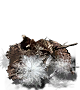
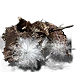
du

diff --git a/collections/_note/01-self-efficacy/001-learning-how-to-learn.md b/collections/_note/01-self-efficacy/001-learning-how-to-learn.md
@@ -564,27 +564,27 @@ I am Barbara Oakley. Thanks for learning about learning.
 
 *When you're learning a new idea, for example a new vocabulary word or a new concept or a new problem solving approach, you sometimes tend to practice it over and over again during the same study session. A little of this is useful and necessary, but continuing to study or practice after you've mastered what you can in the session is called `overlearning`. Overlearning can have its place. It can produce an `automaticity` that can be important when you're executing a serve in tennis or a perfect piano concerto. If you choke on tests or public speaking, overlearning can be especially valuable.* You know that even expert public speakers practice on the order of 70 hours for a typical 20-minute TED Talk? *`Automaticity` can indeed be helpful in times of nervousness, but be wary of repetitive overlearning during a single session. Research has shown it can be a waste of valuable learning time. The reality is, once you've got the basic idea down during a session, continuing to hammer away at it during the same session doesn't strengthen the kinds of long term memory connections you want to have strengthened. Worse yet, focusing on one technique is a little like learning carpentry by only practicing with a hammer. After a while you think you can fix anything by just bashing at it.*
 
-*当你学习一个新概念，比如一个新词汇、一个新概念或一个新的问题解决方法时，有时会倾向于在同一个学习阶段反复练习。适度的重复是有益和必要的，但在你已经掌握了这一阶段内容之后，继续学习或练习称为`过度学习`。过度学习在某些情况下是有价值的，它可以产生一种`自动性`，这在网球发球或完美的钢琴协奏曲时非常重要。如果你在考试或公众演讲时感到紧张，过度学习尤为重要。*你知道，即使是专家级的演讲者，通常也会为一个20分钟的TED演讲练习约70个小时吗？*在紧张的时候，`自动性`确实能带来帮助，但在一个学习阶段过度重复学习应当谨慎。研究表明，这可能浪费宝贵的学习时间。现实是，一旦你在一个阶段掌握了基本概念，在同一个阶段继续反复琢磨并不会增强你所希望的长期记忆连接。更糟的是，过于集中于一种技巧就像只用锤子学习木工。一段时间后，你会觉得通过猛砸就能修复任何东西。*
+*当你学习一个新概念，比如一个新词汇、一个新概念或一个新的问题解决方法时，有时会倾向于在同一个学习阶段反复练习。适度的重复是有益和必要的，但在你已经掌握了这一阶段内容之后，继续学习或练习称为`过度学习`。过度学习在某些情况下是有价值的，它可以产生一种`自动性`，这在网球发球或完美的钢琴协奏曲时非常重要。如果你在考试或公众演讲时感到紧张，过度学习尤为重要*。你知道，即使是专家级的演讲者，通常也会为一个20分钟的TED演讲练习约70个小时吗？**在紧张的时候，`自动性`确实能带来帮助，但在一个学习阶段过度重复学习应当谨慎。研究表明，这可能浪费宝贵的学习时间**。*现实是，一旦你在一个阶段掌握了基本概念，**在同一个阶段继续反复琢磨并不会增强你所希望的长期记忆连接**。更糟的是，过于集中于一种技巧就像只用锤子学习木工。一段时间后，你会觉得通过猛砸就能修复任何东西。*
 
-Using a subsequent study session to repeat what you're trying to learn is just fine and often valuable. It can strengthen and deepen your chunked neuron patterns. But be wary; repeating something you already know perfectly well, is, face it, easy. It can also bring the illusion of competence that you've mastered the full range of material, when you've actually only mastered the easy stuff. Instead, you want to balance your studies by deliberately focusing on what you find more difficult. This focusing on the more difficult material is called deliberate practice. It's often what makes the difference between a good student and a great student. 
+**Using a subsequent study session to repeat what you're trying to learn is just fine and often valuable. It can strengthen and deepen your chunked neuron patterns.** But be wary; repeating something you already know perfectly well, is, face it, easy. *It can also bring the `illusion of competence` that you've mastered the full range of material, when you've actually only mastered the easy stuff.* Instead, you want to balance your studies by deliberately focusing on what you find more difficult. *This focusing on the more difficult material is called `deliberate practice`. It's often what makes the difference between a good student and a great student*. 
 
-使用后续的学习阶段来重复你正在学习的内容是完全可以的，而且通常很有价值。这可以增强和加深你的信息块神经模式。但要小心；重复你已经非常熟悉的内容，其实是很容易的。这也可能带来一种掌握所有材料的错觉，而实际上你只掌握了简单的部分。相反，你需要通过有意识地关注更困难的内容来平衡你的学习。这种关注更困难材料的方式被称为有意练习。这往往是优秀学生和优秀学生之间的区别。
+**使用后续的学习阶段来重复你正在学习的内容是完全可以的，而且通常很有价值。这可以增强和加深你的信息块神经模式。**但要小心；重复你已经非常熟悉的内容，其实是很容易的。*这也可能带来`知识错觉`，而实际上你只掌握了简单的部分*。相反，你需要通过有意识地关注更困难的内容来平衡你的学习。*这种关注更困难材料的方式被称为`刻意练习`。这往往是优秀学生和优秀学生之间的区别*。
 
-All this is also related to a concept known as Einstellung. In this phenomenon, your initial simple thought, an idea you already have in mind or a neural pattern you've already developed and strengthened, may prevent a better idea or solution from being found. We saw this in the focus pinball picture, where your initial pinball of thought went to the upper part of the brain, but the solution thought pattern was in the lower part. The crowded bumpers of the focus mode and the previous patterns you built can create a sort of rut that prevents you from springing to a new place where the solution might be found. Incidentally, the German word Einstellung means mindset. Basically you can remember einstellung as installing a roadblock because of the way you were initially looking at something. This kind of wrong approach is especially easy to do in sports and science, not to mention other disciplines, because sometimes your initial intuition about what's happening or what you need to be doing is misleading. You have to unlearn your erroneous older ideas or approaches even while you're learning new ones.
+All this is also related to a concept known as `Einstellung`. In this phenomenon, **your initial simple thought, an idea you already have in mind or a neural pattern you've already developed and strengthened, may prevent a better idea or solution from being found.** We saw this in the focus pinball picture, where your initial pinball of thought went to the upper part of the brain, but the solution thought pattern was in the lower part. The crowded bumpers of the focus mode and the previous patterns you built can create a sort of rut that prevents you from springing to a new place where the solution might be found. Incidentally, the German word Einstellung means mindset. Basically you can remember einstellung as installing a roadblock because of the way you were initially looking at something. This kind of wrong approach is especially easy to do in sports and science, not to mention other disciplines, **because sometimes your initial intuition about what's happening or what you need to be doing is misleading. You have to unlearn your erroneous older ideas or approaches even while you're learning new ones.**
 
-这一切还与一个叫做“设定”（Einstellung）的概念相关。在这一现象中，你最初的简单想法、你已经掌握的概念或神经模式可能会阻碍更好的想法或解决方案的产生。我们在聚焦弹球的图示中看到，初始的思维弹球上升到大脑的上部，而解决方案的思维模式则在下部。聚焦模式的拥挤和你之前建立的模式可能会造成一种障碍，阻止你跳到一个可能找到解决方案的新地方。顺便提一下，德语中的“Einstellung”意为心态。你可以把“设定”记作因为最初的视角而设置的路障。这种错误的方法在体育和科学领域尤其容易发生，更不用说其他学科，因为有时你对正在发生的事情或需要做的事情的初步直觉可能是误导性的。你必须在学习新知识的同时，忘掉错误的旧观念或方法。
+这一切还与一个叫做“`思维定势`”（Einstellung）的概念相关。在这一现象中，**你最初的简单想法、你已经掌握的概念或神经模式可能会阻碍更好的想法或解决方案的产生**。我们在聚焦弹球的图示中看到，初始的思维弹球上升到大脑的上部，而解决方案的思维模式则在下部。聚焦模式的拥挤和你之前建立的模式可能会造成一种障碍，阻止你跳到一个可能找到解决方案的新地方。顺便提一下，德语中的“Einstellung”意为心态。你可以把“`思维定势`”记作因为最初的视角而设置的路障。这种错误的方法在体育和科学领域尤其容易发生，更不用说其他学科，**因为有时你对正在发生的事情或需要做的事情的初步直觉可能是误导性的。你必须在学习新知识的同时，忘掉错误的旧观念或方法**。
 
-One significant mistake students sometimes make in learning is jumping into the water before they learn to swim. In other words, they blindly start working on homework without reading the textbook, attending lectures, viewing online lessons, or even speaking with someone knowledgeable. This is a recipe for sinking. It's like randomly allowing a thought to, kind of pop off in the focus mode pinball machine, without paying any real attention to where the solution truly lies. Understanding how to obtain real solutions is important in learning and in life. Mastering a new subject means learning not only the basic chunks, but also learning how to select and use different chunks. The best way to learn that is by practicing jumping back and forth between problems or situations that require different techniques or strategies. This is called interleaving. 
+**One significant mistake students sometimes make in learning is jumping into the water before they learn to swim.** In other words, they blindly start working on homework without reading the textbook, attending lectures, viewing online lessons, or even speaking with someone knowledgeable. This is a recipe for sinking. It's like randomly allowing a thought to, kind of pop off in the focus mode pinball machine, without paying any real attention to where the solution truly lies. **Understanding how to obtain real solutions is important in learning and in life.** Mastering a new subject means learning not only the basic chunks, but also learning how to select and use different chunks. **The best way to learn that is by practicing jumping back and forth between problems or situations that require different techniques or strategies**. This is called `interleaving`. 
 
-学生在学习中有一个显著的错误就是在学会游泳之前就跳入水中。换句话说，他们盲目开始做作业，而不去阅读教科书、参加讲座、观看在线课程，甚至与知识渊博的人交谈。这是沉没的食谱。就像在聚焦模式的弹球机中，随机让一个想法冒出来，而没有真正关注解决方案到底在哪里。了解如何获得真正的解决方案在学习和生活中都很重要。掌握一门新学科意味着不仅要学习基本的信息块，还要学习如何选择和使用不同的信息块。学习这一点的最佳方法是练习在需要不同技巧或策略的问题或情境之间来回跳转。这被称为交错学习（interleaving）。
+学生在学习中**有一个显著的错误就是在学会游泳之前就跳入水中**。换句话说，他们盲目开始做作业，而不去阅读教科书、参加讲座、观看在线课程，甚至与知识渊博的人交谈。这让学习“翻车”。就像在聚焦模式的弹球机中，随机让一个想法冒出来，而没有真正关注解决方案到底在哪里。**了解如何获得真正的解决方案在学习和生活中都很重要。**掌握一门新学科意味着不仅要学习基本的信息块，还要学习如何选择和使用不同的信息块。学习这一点的最佳方法是**练习在需要不同技巧或策略的问题或情境之间来回跳转**。这被称为`交错学习（interleaving）`。
 
-Once you have the basic idea of the technique down during your study session, sort of like learning to ride a bike with training wheels, start interleaving your practice with problems of different types or different types of approaches, concepts, procedures. Sometimes this can be a little tough to do. A given section in a book, for example, is often devoted to a specific technique, so when you flip to that section you already know which technique you're going to be using. Still, do what you can to mix up your learning. In science and math in particular it can help to look ahead at the more varied problem sets that are sometimes found at the end of chapters. Or you can deliberately try to make yourself occasionally pick out why some problems call for one technique as opposed to another. You want your brain to become used to the idea that just knowing how to use a particular concept, approach, or problemsolving technique isn't enough. You also need to know when to use it. 
+**Once you have the basic idea of the technique down during your study session**, sort of like learning to ride a bike with training wheels, **start `interleaving` your practice with problems of different types or different types of approaches, concepts, procedures**. Sometimes this can be a little tough to do. A given section in a book, for example, is often devoted to a specific technique, so when you flip to that section you already know which technique you're going to be using. Still, do what you can to mix up your learning. *In science and math in particular it can help to look ahead at the more varied problem sets that are sometimes found at the end of chapters. Or you can deliberately try to make yourself occasionally pick out why some problems call for one technique as opposed to another.* **You want your brain to become used to the idea that just knowing how to use a particular concept, approach, or problemsolving technique isn't enough. You also need to know when to use it.**
 
-一旦在学习阶段掌握了某个技巧的基本概念，就像学习骑自行车时使用辅助轮一样，开始将你的练习与不同类型或不同方法、概念和程序的问题交错。有时这可能有点困难。例如，书中的特定部分通常专注于一种特定技巧，所以当你翻到该部分时，你已经知道要使用哪种技巧。尽管如此，尽量混合你的学习。在科学和数学中，提前查看章节末尾有时会找到更为多样的问题集，尤其有帮助。或者，你可以有意地尝试挑选出为什么某些问题要求使用一种技巧而不是另一种技巧。你希望你的大脑习惯于，仅仅知道如何使用特定概念、方法或问题解决技巧是不够的。你还需要知道何时使用它。
+**一旦在学习过程中掌握了某种技巧的基本概念**，就像带辅助轮学骑自行车一样，可以**开始将练习与不同类型的问题、方法、概念或步骤混合起来**。这种`交错学习`（interleaving）有助于**深化理解和灵活应用**，但有时可能会有些困难。例如，书中的某一章节通常专注于特定技巧，当翻到该章节时，你已经知道将使用哪种技巧。然而，尽量通过不同方式混合你的学习内容。尤其是在科学和数学领域，这种方法非常有效。*可以尝试提前查看章节末尾的综合问题集，这些问题往往更加多样化。此外，也可以有意识地分析并找出为什么某些问题适合使用一种特定技巧，而不是另一种。***目标是让大脑习惯于不仅仅知道如何使用某种概念、方法或解题技巧，还要知道何时以及为什么使用它。**
 
-Interleaving your studies, making it a point to review for a test, for example, by skipping around through problems in the different chapters and materials can sometimes seem to make your learning a little more difficult, but in reality, it helps you learn more deeply. Interleaving is extraordinarily important. Although practice and repetition is important in helping build solid neural patterns to draw on, it's interleaving that starts building flexibility and creativity. It's where you leave the world of practice and repetition, and begin thinking more independently. When you interleave within one subject or one discipline, you begin to develop your creative power within that discipline. When you interleave between several subjects or disciplines, you can more easily make interesting new connections between chunks in the different fields, which can enhance your creativity even further. 
+`Interleaving` your studies, making it a point to review for a test, for example, by skipping around through problems in the different chapters and materials can sometimes seem to make your learning a little more difficult, but in reality, it helps you learn more deeply. Interleaving is extraordinarily important. Although practice and repetition is important in helping build solid neural patterns to draw on, it's interleaving that starts building flexibility and creativity. It's where you leave the world of practice and repetition, and begin thinking more independently. When you interleave within one subject or one discipline, you begin to develop your creative power within that discipline. When you interleave between several subjects or disciplines, you can more easily make interesting new connections between chunks in the different fields, which can enhance your creativity even further. 
 
-交错学习，即例如通过在不同章节和材料中跳过问题来复习以备考试，有时可能让你的学习看起来更困难，但实际上，它帮助你更深入地学习。交错学习是极其重要的。虽然练习和重复在帮助建立坚实的神经模式以供调用方面很重要，但正是交错学习开始建立灵活性和创造力。它是你离开练习和重复的世界，开始更独立思考的地方。当你在一个学科或领域内进行交错学习时，你开始在该领域内发展你的创造力。当你在多个学科之间交错学习时，你可以更容易地在不同领域的信息块之间建立有趣的新连接，这可以进一步增强你的创造力。
+`交错学习`，即例如通过在不同章节和材料中跳过问题来复习以备考试，*有时可能让你的学习看起来更困难*，但实际上，它帮助你更深入地学习。**交错学习是极其重要的。虽然练习和重复在帮助建立坚实的神经模式以供调用方面很重要，但正是交错学习开始建立灵活性和创造力**。它是你离开练习和重复的世界，开始更独立思考的地方。当你在一个学科或领域内进行交错学习时，你开始在该领域内发展你的创造力。当你在多个学科之间交错学习时，你可以更容易地在不同领域的信息块之间建立有趣的新连接，这可以进一步增强你的创造力。
 
 Of course it takes time to develop solid chunks of knowledge in different fields, so sometimes there's a tradeoff. Developing expertise in several fields means you can bring very new ideas from one field to the other, but it can also mean that your expertise in one field or the other isn't quite as deep as that of the person who specializes in only one discipline. On the other hand, if you develop expertise in only one discipline, you may know it very deeply but you may become more deeply entrenched in your familiar way of thinking and not be able to handle new ideas. Philosopher of science Thomas Kuhn discovered that most paradigm shifts in science are brought about either young people or people who were originally trained in a different discipline. They're not so easily trapped by einstellung, blocked thoughts due to their preceding training. And of course there's the old saying that science progresses one funeral at a time as people entrenched in the old ways of looking at things die off. 
 

diff --git a/pages/index.md b/pages/index.md
@@ -10,7 +10,7 @@ highlight: false
 permalink: /
 ---
 
-<h1 class="index_title"> RUBBISH BIN 🗑</h1>
+<h1 class="index_title">HERE'S A RUBBISH BIN 🗑</h1>
 
 <br>
 
@@ -40,20 +40,20 @@ permalink: /
 
          ,        ,                                          
         ( \      / )                                         
-         \  ·---·  /                                         
+         \ ·----·  /                                         
          /.--. .--, \  .0'''~,                               
         /\_(o) (o)_/\ /\ | /  \                              
     ___.-.__(_c_))_.-.\ \ / / /)                             
    (___(((_________)))_-~''/ / /                             
     |  ||  ||  ||x ||  ||   / )                              
-    |  ||  ||  ||  ||  ||   |/                               
-    |  ||  ||  ||  ||  ||   '                                
-    \  ||  ||  ||  ||  ||                                    
-     \ ||  ||  ||  |.- -''`- -._                             
-     /\||  ||  ||  ;            :                            
-    |  ||  ||  || ;      __      ;                           
-    |  ||  ||  ||;      ( @)      :                          
-    |  ||  ||  ||.                ·                          
-    | c||  ||  || ,  ~@~         ;               +%^·,       
-    .,_@,__.,__ldb__'= =,··,~@ ='       !#-@&*^)#$%^)_(()_+)<a href="/texts">.</a><a href="/trash">.</a>. 
+    |  ||  ||  ||  ||  ||   |/         __________            
+    |  ||  ||  ||  ||  ||   '         |I'm trash.|           
+    \  ||  ||  ||  ||  ||            /'----------'           
+     \ ||  ||  ||  |.- -''`- -._    /                        
+     /\||  ||  ||  ;            :  /                         
+    |  ||  ||  || ;     .__      ;                           
+    |  ||  ||  ||;     (~<a href="/cv">ME</a>)      :                          
+    |  ||  ||  ||.                ·              ..          
+    | c||  ||  || ,  ~@~         ;              /+%^·,       
+    .,_@,__.,__ldb__'= =,··,~@ ='      !-@&*^)#$%^_(()_+)<a href="/texts">.</a><a href="/trash">.</a>. 
 </pre></div>

diff --git a/pages/cv.md b/pages/cv.md
@@ -1,0 +1,71 @@
+---
+layout: post
+post_list: false
+toc: false
+comment: true
+home_btn: true
+btn_text: true
+footer: true
+highlight: false
+permalink: /cv
+---
+
+# Curriculum Vitae
+
+## RUBBISH WITH NO VALUE 
+
+<img src="src/assets/img/rubbish.png" align="right" width="95px" hspace="5" vspace="5">
+
+**[SENIOR TRASH]**
+
+<i class="fa fa-trash"> **Rubbish bin** \| *Smelly Town, Vast Desert, 000000*  
+
+<i class="fa fa-envelope-square"> valueless@trash.com \| <i class="fa fa-phone"> +1145141919 \| <i class="fa fa-linkedin">Valueless Rubbish  \| <i class="fa fa-home"> Personal Website: [Rubbish bin](bcqlr.com)
+
+
+## PROFESSIONAL SUMMARY  
+
+*"Totally a piece of trash, useless and incapable, aiming high but achieving little, and shallow in knowledge... In short, totally a piece of trash."*
+
+*"I crawl ignorantly on the ground, like a blind reptile, writhing toward endless madness and despair."*
+
+## SKILLS 
+
+- `SKILL 1`: *"Pretend to work hard."*
+- `SKILL 2`: *"Addicted to short videos."*
+- `SKILL 3`: *"Lazy and indulgent."*  
+- `SKILL 4`: *"Love to talk big but never take action."*
+
+
+## EXPERIENCE  
+
+#### CURLED UP IN A TRASH CAN.  
+
+*"Trash can", everywhere on the street*
+
+`[??,20??] – [Present] ` 
+
+- *"Watching people on the street rushing back and forth."*
+- *"Picked up a cold burger from the trash can. Exhaled a breath through the nostrils, then felt a chill slowly glide down the esophagus."*
+- *"Night falls. The noisy streets return to silence. I look up at the sky."*
+
+
+#### EDUCATION  
+
+**Bachelor of Science in Playing Dead**
+
+*University of Ignorance and Despair, Vast Desert*
+
+`[??,18??] – [??,19??]`
+  - GPA: 2.71 - *"I tried."*
+  - Graduation Thesis: *On How to Make Everyone a Wonderful, Kind, and Better-Version-of-Themselves Trash*.
+
+## **CERTIFICATIONS & AWARDS**
+
+- **"See! There stands a tall pile of trash!"** - *A lively little boy passes by*
+- **"So smelly."** - *A lady in high heels walks by, I couldn't see her face clearly*
+
+## LANGUAGES  
+
+**ENGLISH**: "But I have nothing to say."
+
